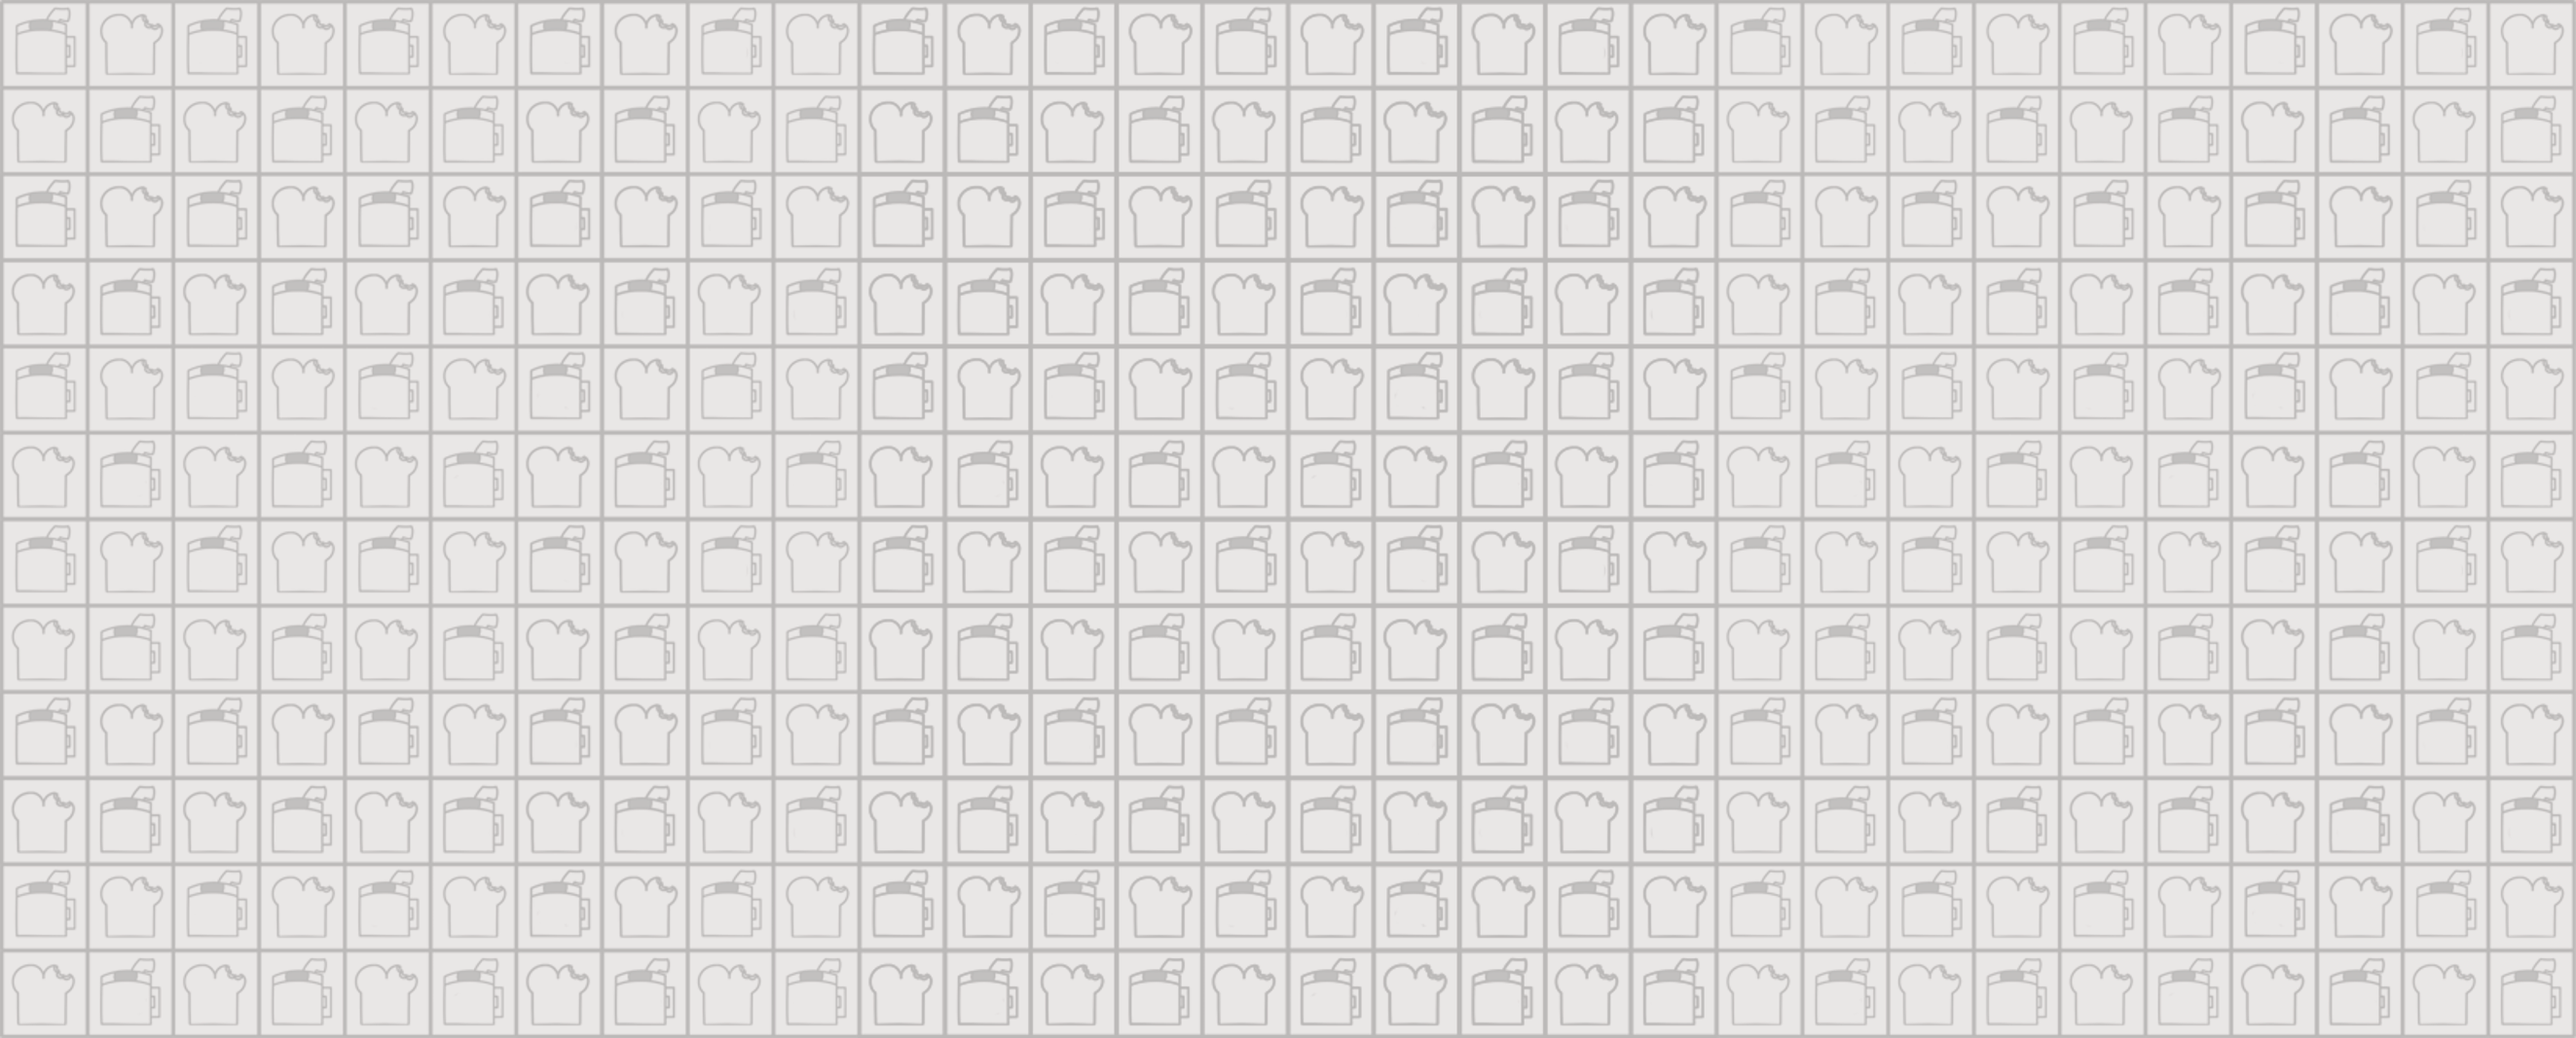
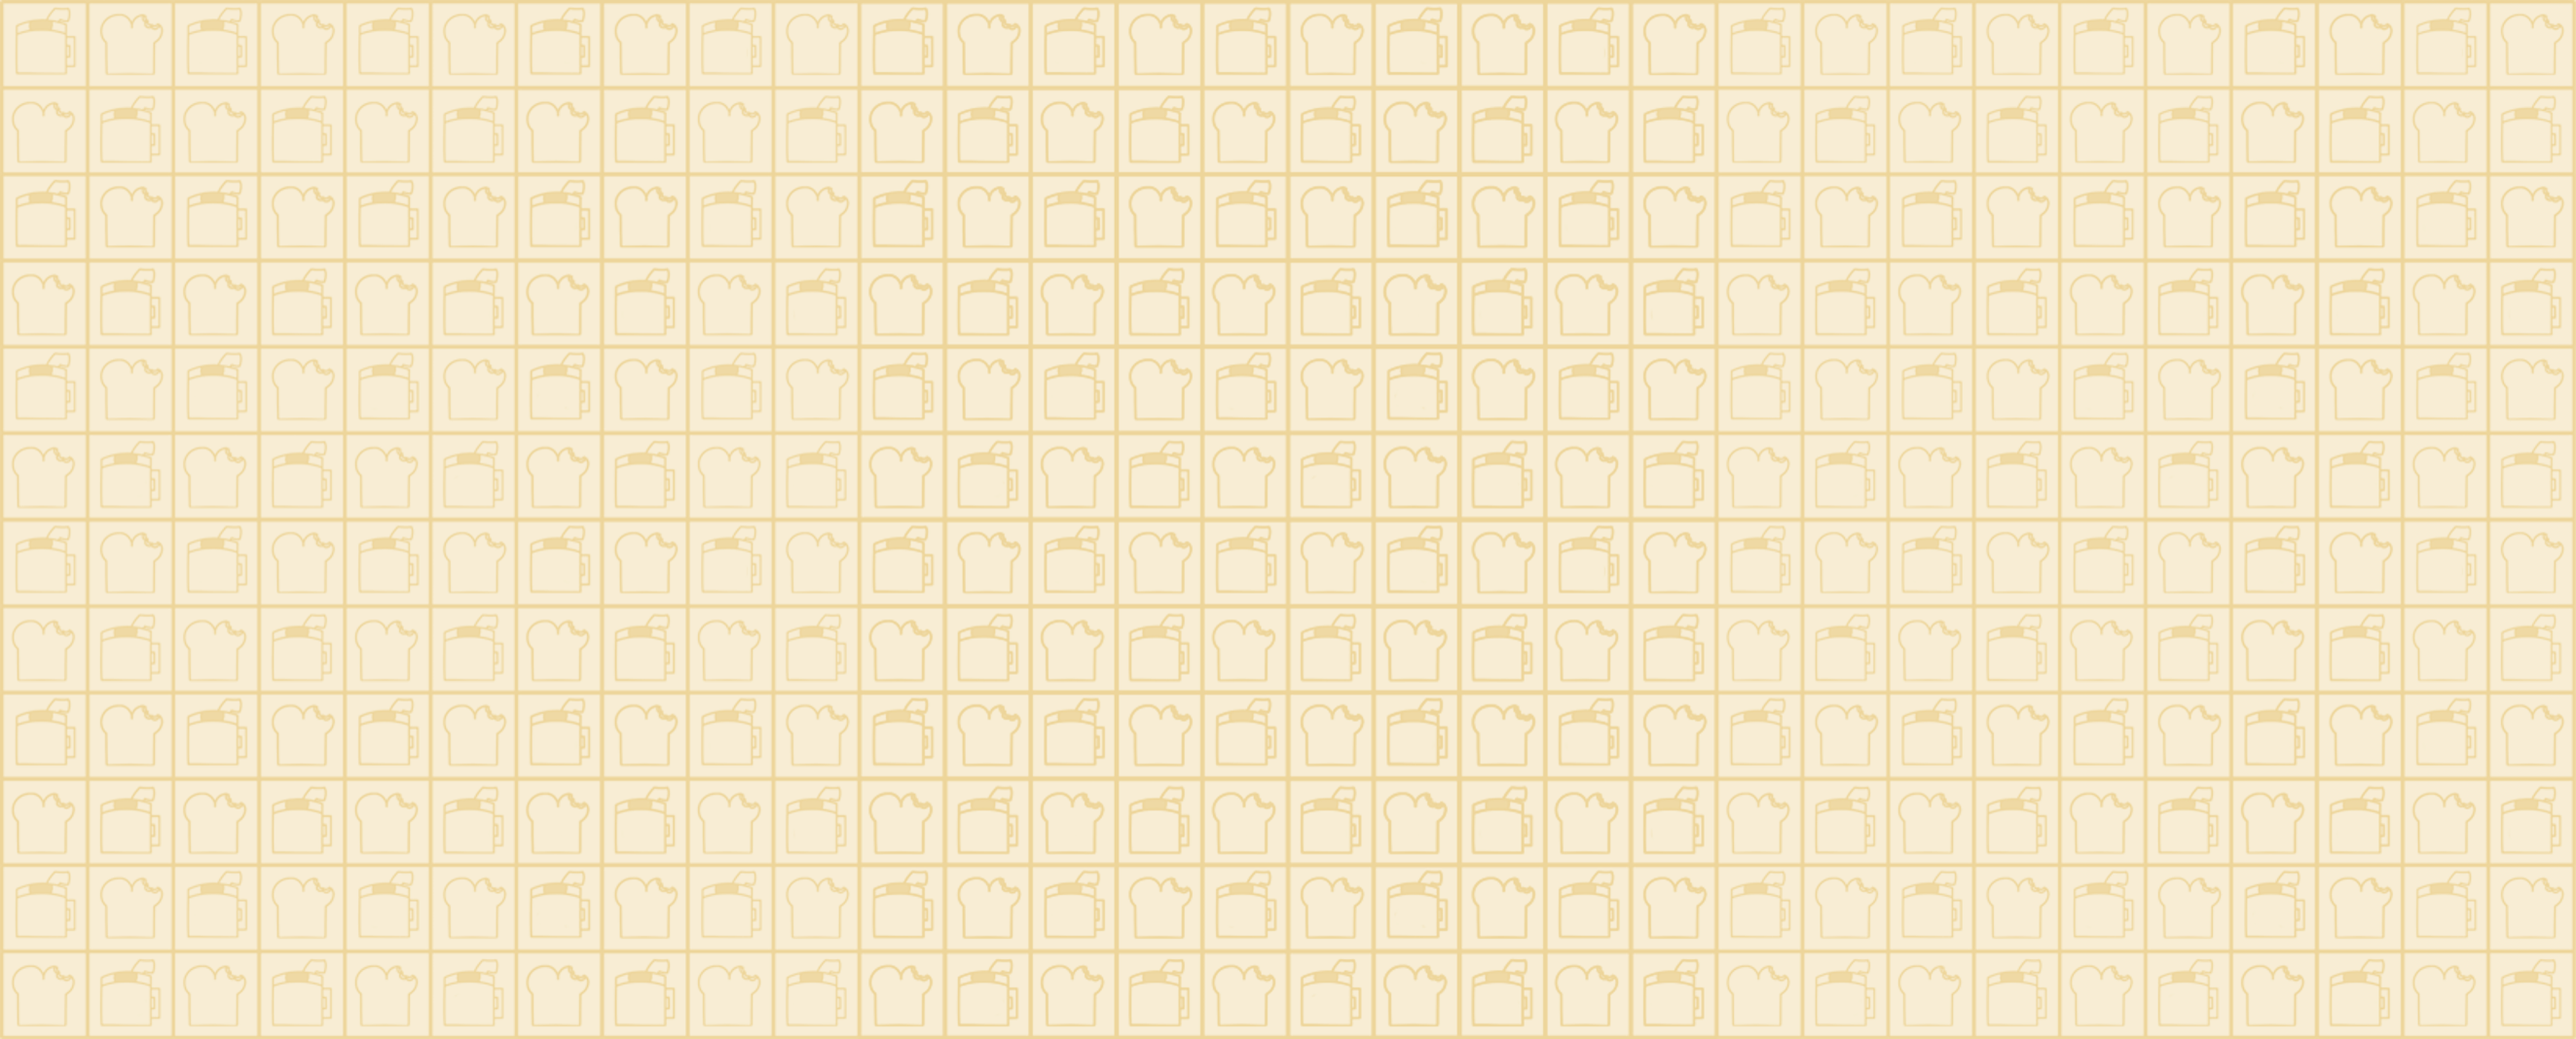
Demo

Changed region(s): [[0.0, 0.0, 1.0, 1.0]]

diff --git a/Game/src/menu.js b/Game/src/menu.js
@@ -137,13 +137,43 @@ export class Menu extends Phaser.Scene {
         
         // Panel creditos
         panelCredits = {
-            creditosTxt: this.add.text(widthScr * 0.5, heightScr * 0.25, 'Hecho por Santiago Maldonado y Juan Navia',{
+            creditosTxt: this.add.text(widthScr * 0.5, heightScr * 0.22, 'Videojuego desarrollado por los estudiantes:',{
                 fontFamily: 'Japab',
-                fontSize : '40px',
+                fontSize : '41px',
                 fill: '#000000',
             }).setOrigin(0.5).setDepth(8),
 
-            phaserImg: this.add.image(widthScr * 0.5, heightScr * 0.85, 'logoPhaser').setScale(0.08).setDepth(6),
+            nombre1Txt: this.add.text(widthScr * 0.28, heightScr * 0.42, 'Santiago Maldonado',{
+                fontFamily: 'Japab',
+                fontSize : '43px',
+                fill: '#000000',
+            }).setOrigin(0.5).setDepth(8),
+
+            nombre2Txt: this.add.text(widthScr * 0.78, heightScr * 0.42, 'Juan Navia',{
+                fontFamily: 'Japab',
+                fontSize : '43px',
+                fill: '#000000',
+            }).setOrigin(0.5).setDepth(8),
+
+            rol1Txt: this.add.text(widthScr * 0.28, heightScr * 0.53, 'PROGRAMADOR',{
+                fontFamily: 'Japab',
+                fontSize : '30px',
+                fill: '#DD992C',
+            }).setOrigin(0.5).setDepth(8),
+
+            rol2Txt: this.add.text(widthScr * 0.78, heightScr * 0.53, 'DISENADOR',{
+                fontFamily: 'Japab',
+                fontSize : '30px',
+                fill: '#DD992C',
+            }).setOrigin(0.5).setDepth(8),
+
+            esAux: this.add.text(widthScr * 0.78, heightScr * 0.51, '-',{
+                fontFamily: 'Japab',
+                fontSize : '30px',
+                fill: '#DD992C',
+            }).setOrigin(0.5).setDepth(8),
+
+            phaserImg: this.add.image(widthScr * 0.51, heightScr * 0.83, 'logoPhaser').setScale(0.09).setDepth(6),
             
             returnBtn: returnBtn.setVisible(true),
         }

diff --git a/Game/src/loadBar.js b/Game/src/loadBar.js
@@ -6,7 +6,7 @@ export class LoadBar extends Phaser.Scene {
     
     // Se declaran los pocos assets por usar en la pantalla de carga
     preload(){
-        this.load.image('fondoMenu', 'assets/fondoMenu1.png');
+        this.load.image('fondoMenu', 'assets/fondoMenu.png');
         this.load.image('marcoBarra', 'assets/marcoVida.png');
         this.load.image('fondoBarra', 'assets/barraVidaFondo.png');
     }
